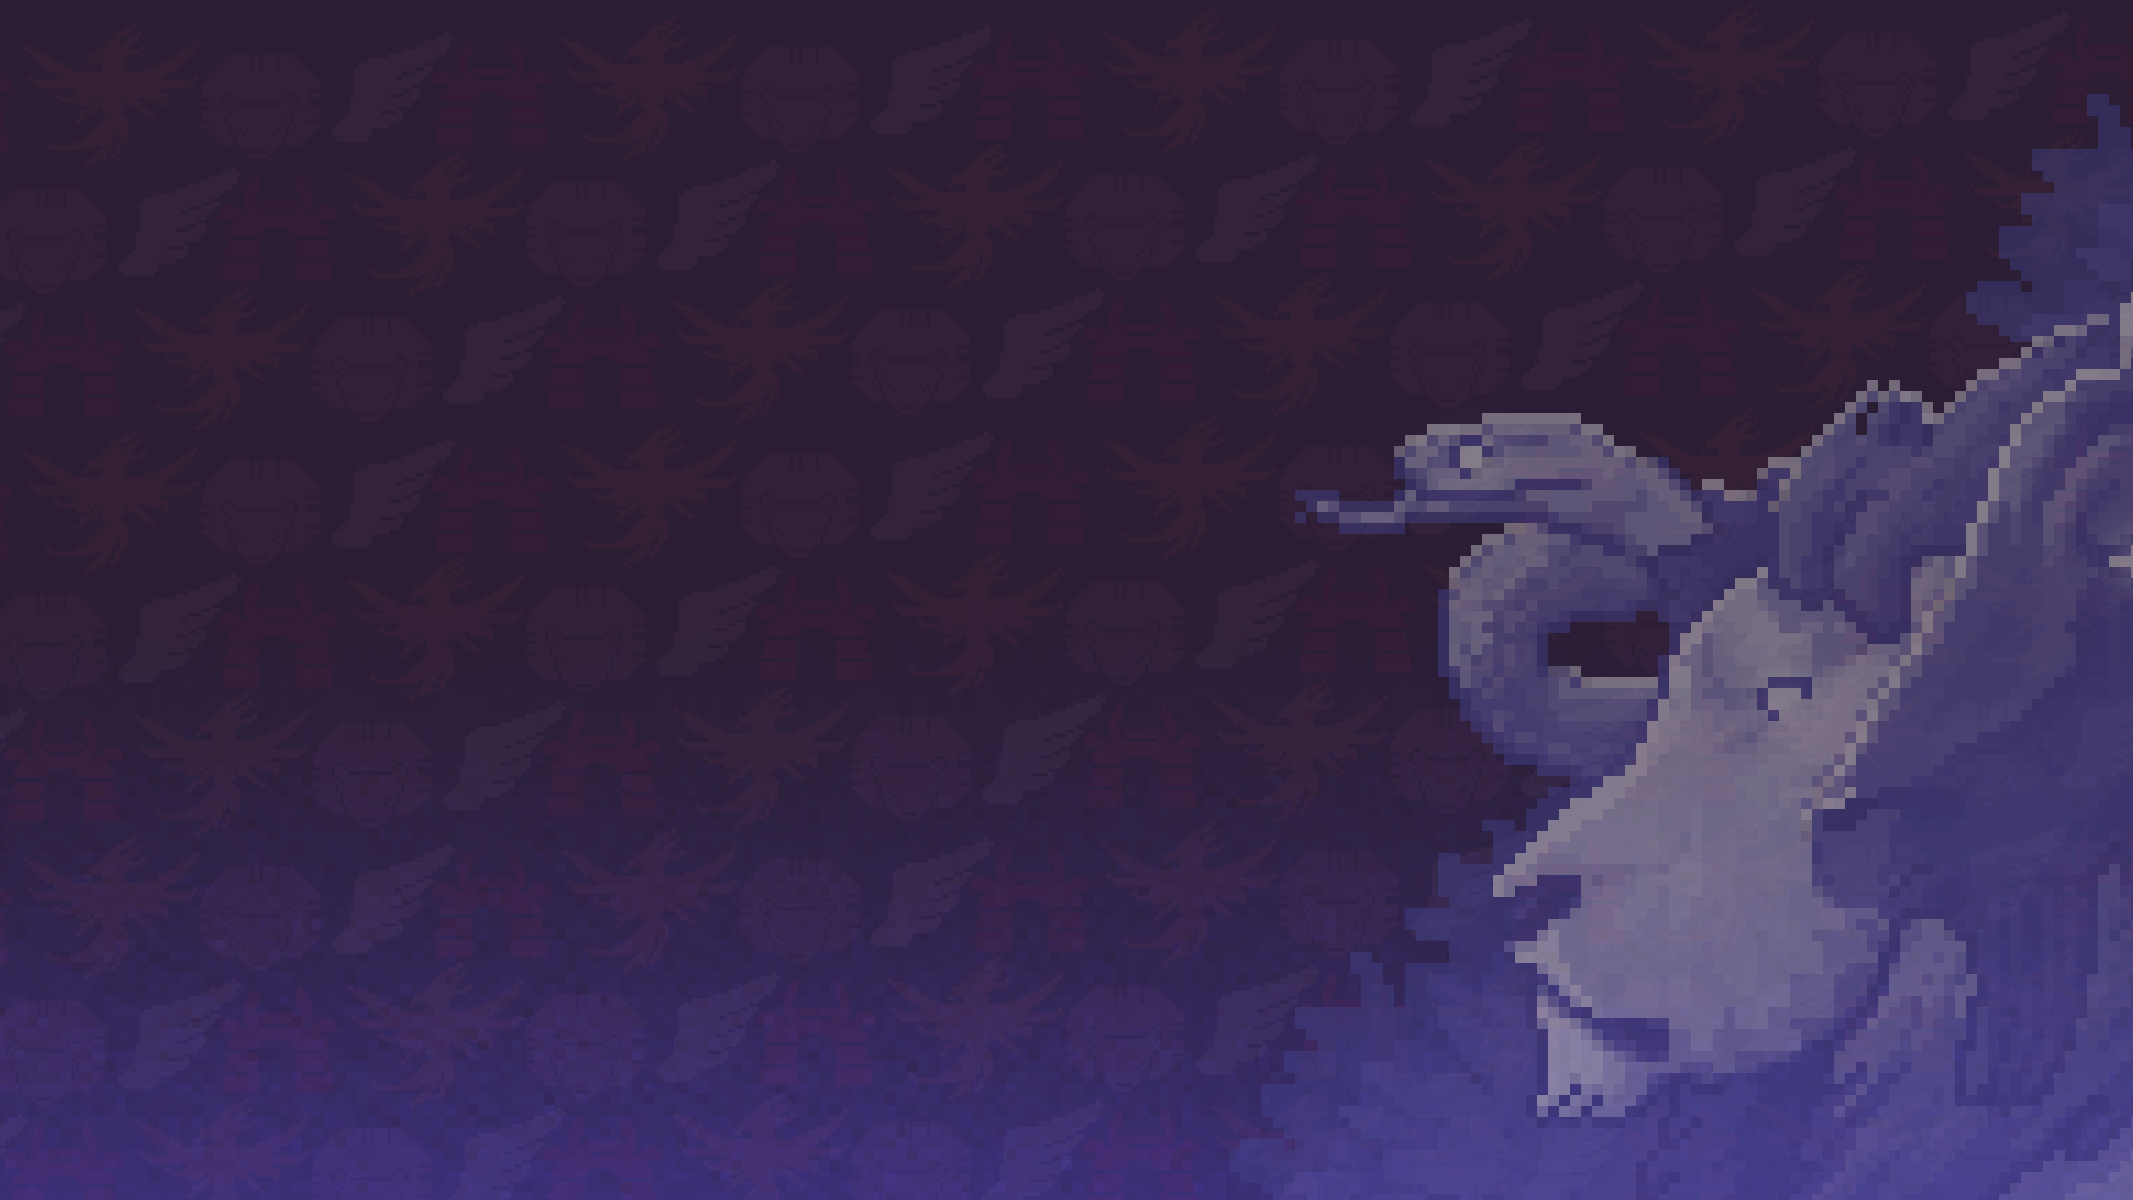
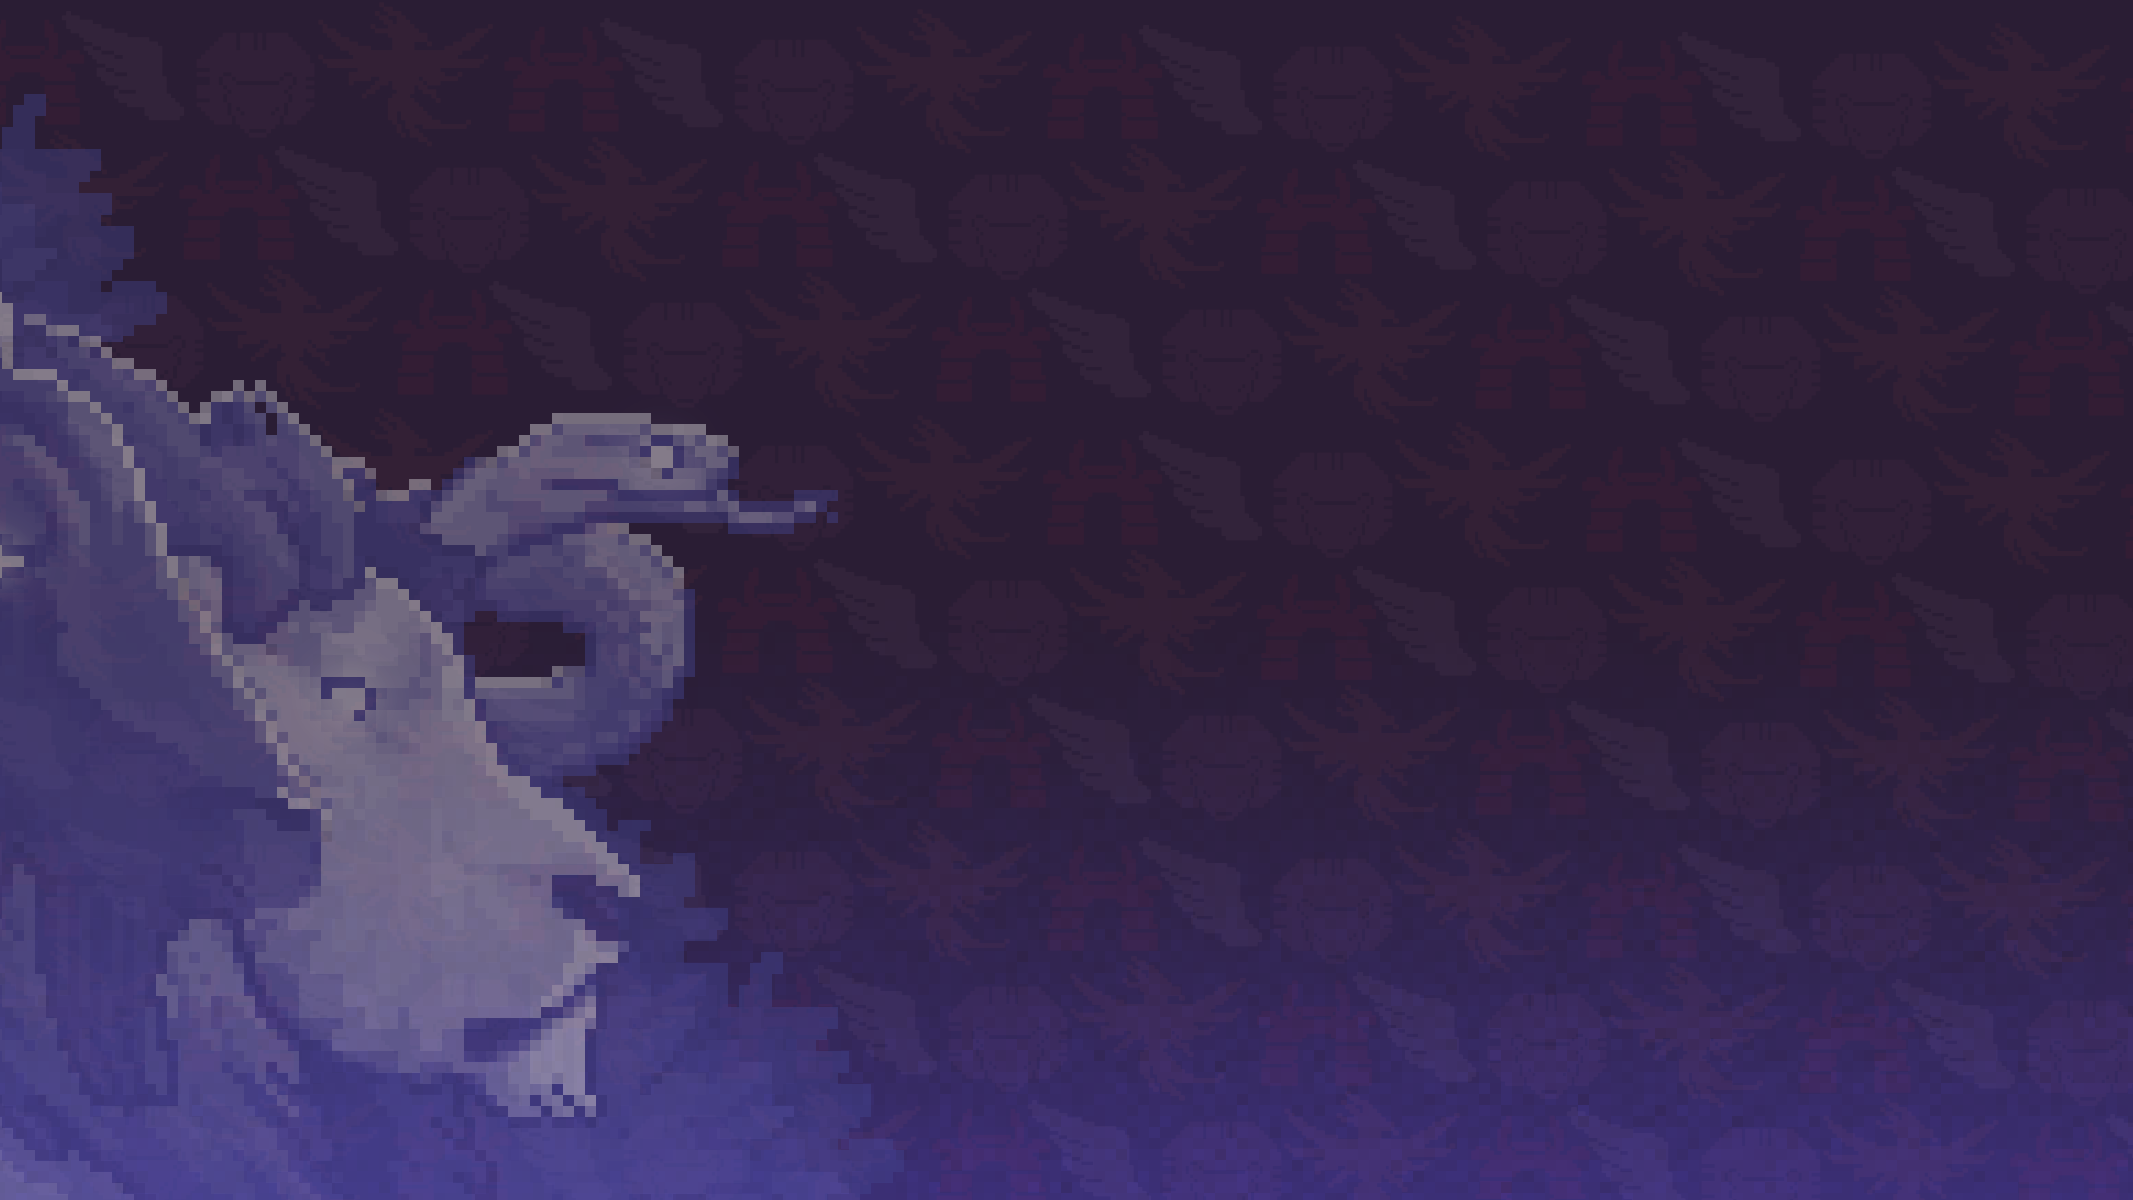
update bg

diff --git a/src/Pages/Games.jsx b/src/Pages/Games.jsx
@@ -4,58 +4,45 @@ import { useState, useEffect } from 'react';
 import { getGames } from '../dataService';
 
 const Games = () => {
-    
 
- 
-   const [games, setGames] = useState([]);
- 
-    useEffect(()=>{
+
+
+    const [games, setGames] = useState([]);
+
+    useEffect(() => {
         const fetchGames = async () => {
             const games = await getGames();
-             setGames(games);                
-         }
+            setGames(games);
+        }
 
         fetchGames();
     }, [setGames])
 
 
-	return (
-		<div className="App">
-      
-        <header className="App-header">
-          
-          
-            <li>
-                <NavLink to="/">Home</NavLink>
-            </li>
+    return (
+        <div className="App">
+            <div className="games_container">
+                <div className="App-header">
+                    <NavLink to="/">Home</NavLink>
+                </div>
 
+                <div className="games-content">
+                    {
+                        games?.map((game, i) => (
+                            <div key={i} className="gamelist">
 
-          
-          
-        </header>
+                                <Link to={`/games/${game.id}`}>
+                                    <div className="btn">{game.name}</div>
+                                </Link>
+                                <div>{game.info}</div>
+                            </div>
 
-        
-
-        <div className="games-content">
-            {
-                games?.map((game,i)=>(
-                    <div key={i}>
-                        
-                        <Link to={`/games/${game.id}`}>
-                            <div className="btn">{game.name}</div>
-                        </Link>
-                        <div>{game.info}</div>
-                    </div>
-                    
-                ))
-            }
+                        ))
+                    }
+                </div>
+            </div>
         </div>
-
-
-
-
-      </div>
-	);
+    );
 };
 
 export default Games;

diff --git a/src/Pages/Home.jsx b/src/Pages/Home.jsx
@@ -6,29 +6,30 @@ const Home = () => {
 
   return (
     <div className="App">
-      <header className="App-header">
-        <li>
-          <NavLink to="/games">Games</NavLink>
-        </li>
-      </header>
-      <ul>
-      {
-        
-                empireIds.map((empireId)=>(
-                    <li key={empireId}>
-                        <Link to={`/empire/${empireId}`}>
-                        <div className="btn">{empires[empireId].name}</div>
-                        </Link>
-                    </li>
-                    
-                ))
-            }
-        
-      </ul>
-      <NavLink to="/empire/chimera">Chimera</NavLink>
-      <NavLink to="/empire/shinobi">Shinobi</NavLink>
-      <NavLink to="/empire/pegasus">Pegasus</NavLink>
-      <NavLink to="/empire/phoenix">Phoenix</NavLink>
+      <div className="home_container">
+        <div className="App-header">
+          <div>
+            <NavLink to="/games">Games</NavLink>
+          </div>
+        </div>
+
+        <div className="empire_list">
+          {
+            empireIds.map((empireId) => (
+              <div key={empireId}>
+                <Link to={`/empire/${empireId}`}>
+                  <div className="btn">{empires[empireId].name}</div>
+                </Link>
+              </div>
+            ))
+          }
+        </div>
+
+        {/* <NavLink to="/empire/chimera">Chimera</NavLink>
+        <NavLink to="/empire/shinobi">Shinobi</NavLink>
+        <NavLink to="/empire/pegasus">Pegasus</NavLink>
+        <NavLink to="/empire/phoenix">Phoenix</NavLink> */}
+      </div>
     </div>
   );
 };

diff --git a/src/Pages/Home.css b/src/Pages/Home.css
@@ -1,10 +1,10 @@
 import 
 
+.App {
+    background-image: url(../assets/homepage_bg.png);
+}
+
 .App-header {
-    display: flex;
-    flex-direction: column;
-    align-items: center;
-    justify-content: center;
     font-size: calc(10px + 2vmin);
     color: white;
   }
@@ -33,7 +33,16 @@ import
     }
   }
 
-  .App-header {
-    height: 10px;
-    background-image: url(../assets/background.png);
+  .home_container {
+    background-image: url(../assets/homepage_bg.png);
+    background-size: contain;
+    height: 100vh;
+    width: 100%;   
+  }
+
+  .empire_list {
+    display: flex;
+    justify-content: center;
+    padding-block: 10px;
+    gap: 30px;
   }

diff --git a/src/Pages/Games.css b/src/Pages/Games.css
@@ -1,10 +1,17 @@
 .games-content {
     max-width: 100%;
     display: grid;
-    grid-gap: 10px;
-    grid-template-columns: repeat(4, calc(25% - 40px));
+    grid-gap: 4%;
+    grid-template-columns: repeat(4, calc(21%));
     grid-template-rows: minmax(150px, 1fr);
     padding: 0 20px;
   }
 
-  
+.App-header {
+    padding-bottom: 20px;
+    padding-top: 20px;
+}
+
+.gamelist {
+    background-color: wheat;
+}

diff --git a/src/Pages/GameScores.jsx b/src/Pages/GameScores.jsx
@@ -40,7 +40,7 @@ const GameScores = () => {
     return (
         
         <div className="App">
-            <div className="gameScores"  style={divStyle} >
+            <div className="gameScores"  style={divStyle}>
                 <div className="game-content">
 
                     <div>{game.name}</div>

diff --git a/src/Pages/GameScores.css b/src/Pages/GameScores.css
@@ -1,6 +1,14 @@
 .gameScores {
     width: 100%;
     height: 100vh;
-    
+    background-size: contain;
 }
 
+.games_container {
+    background-image: url(../assets/background.png);
+    background-size: contain;
+    height: 100vh;
+    width: 100%;
+    display: flex;
+    flex-direction: column;
+}
